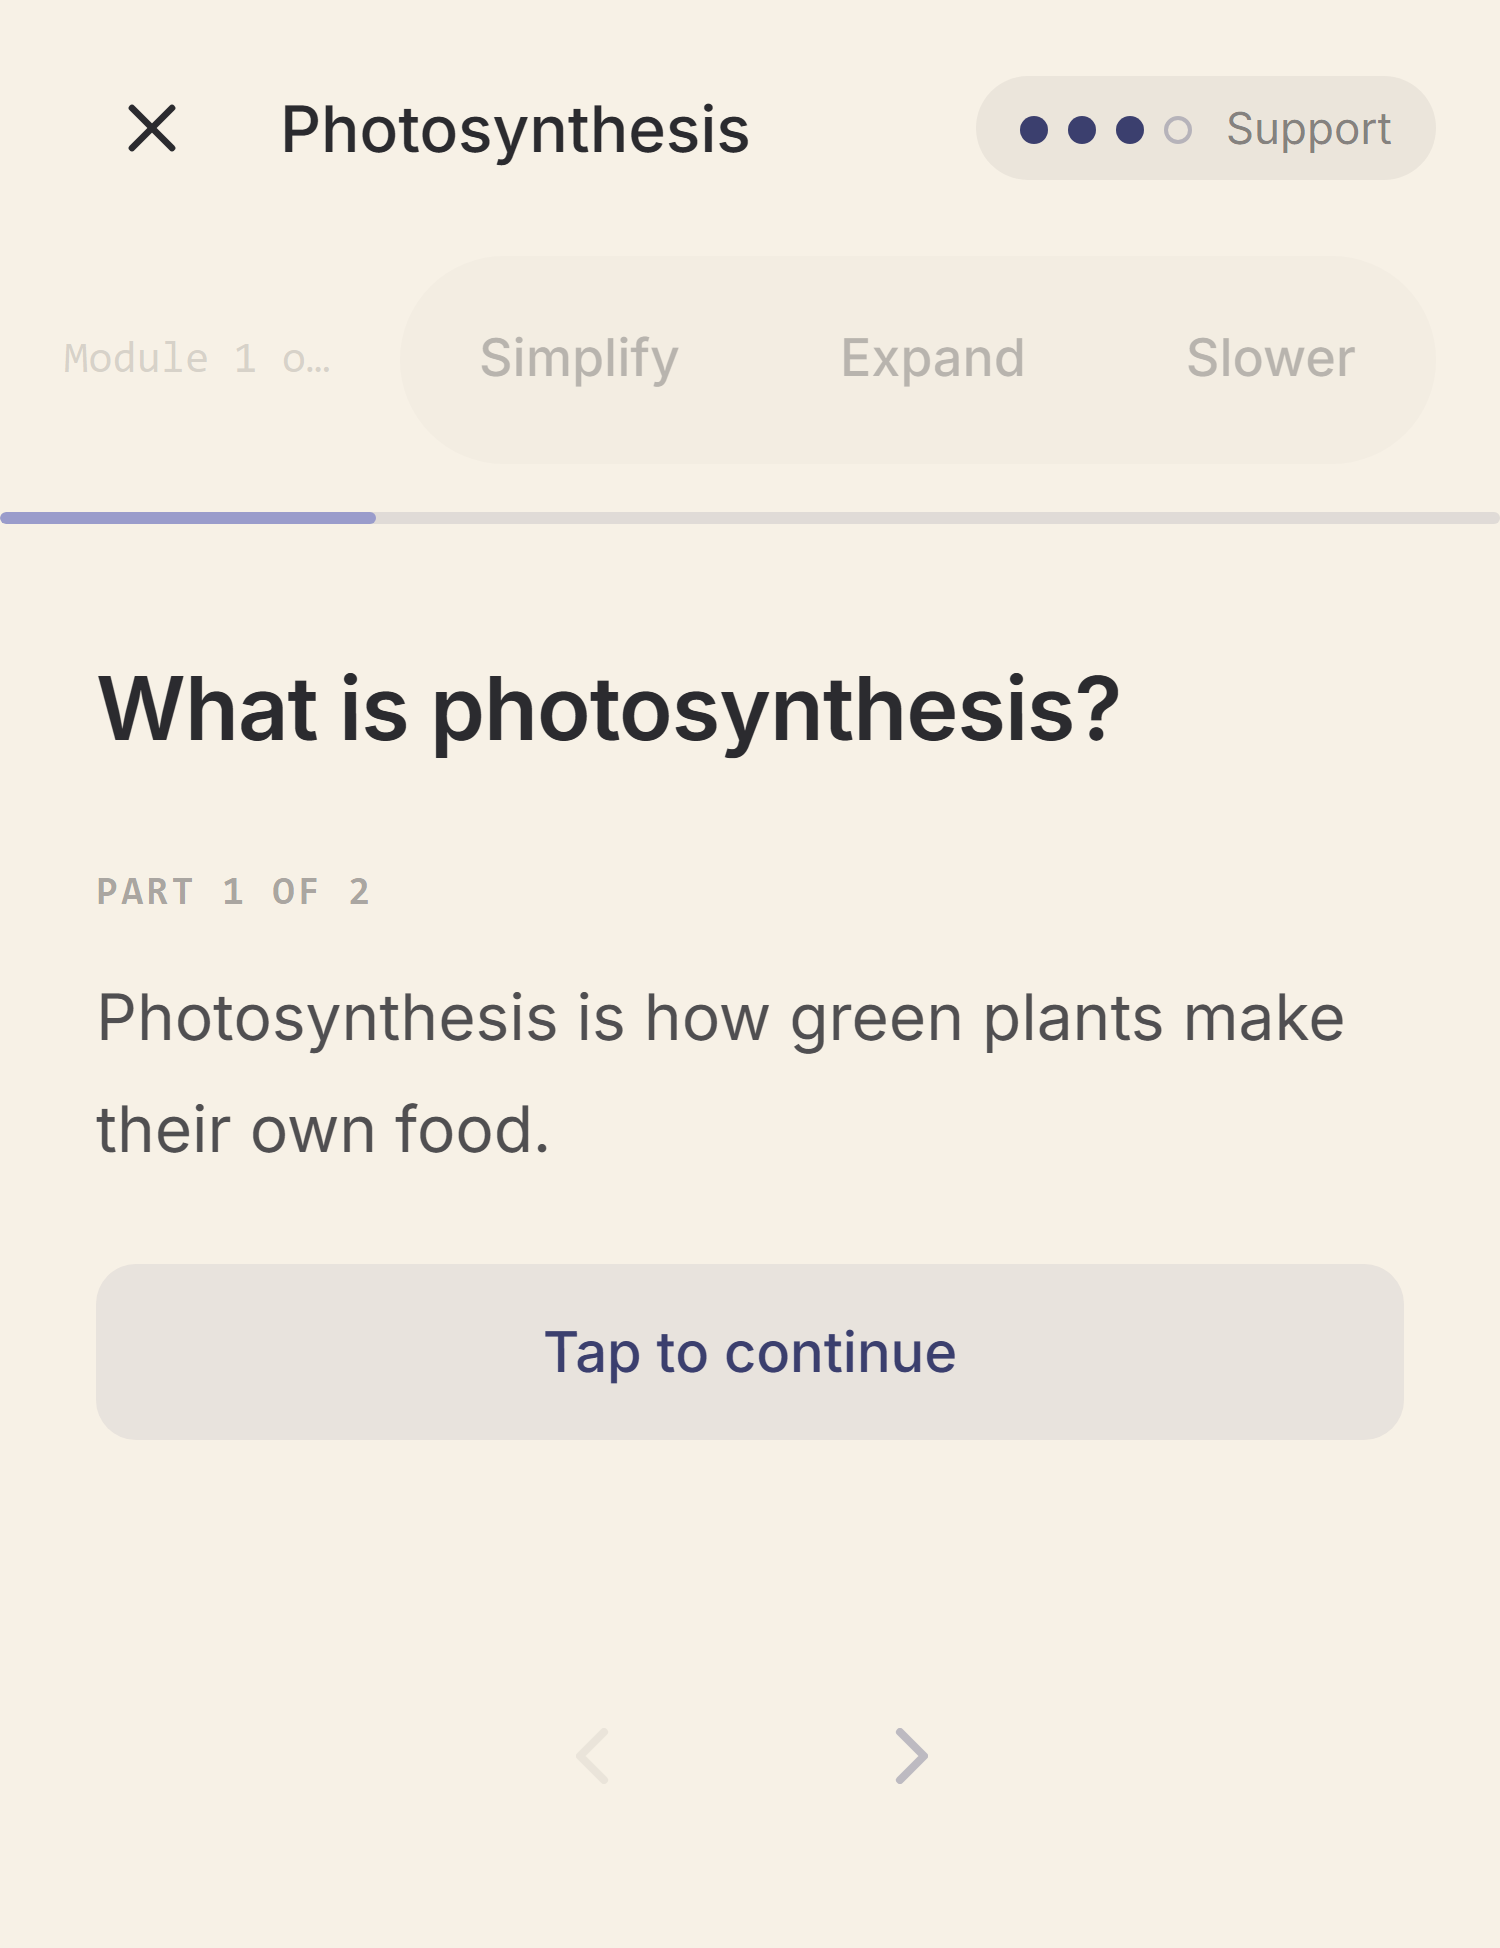
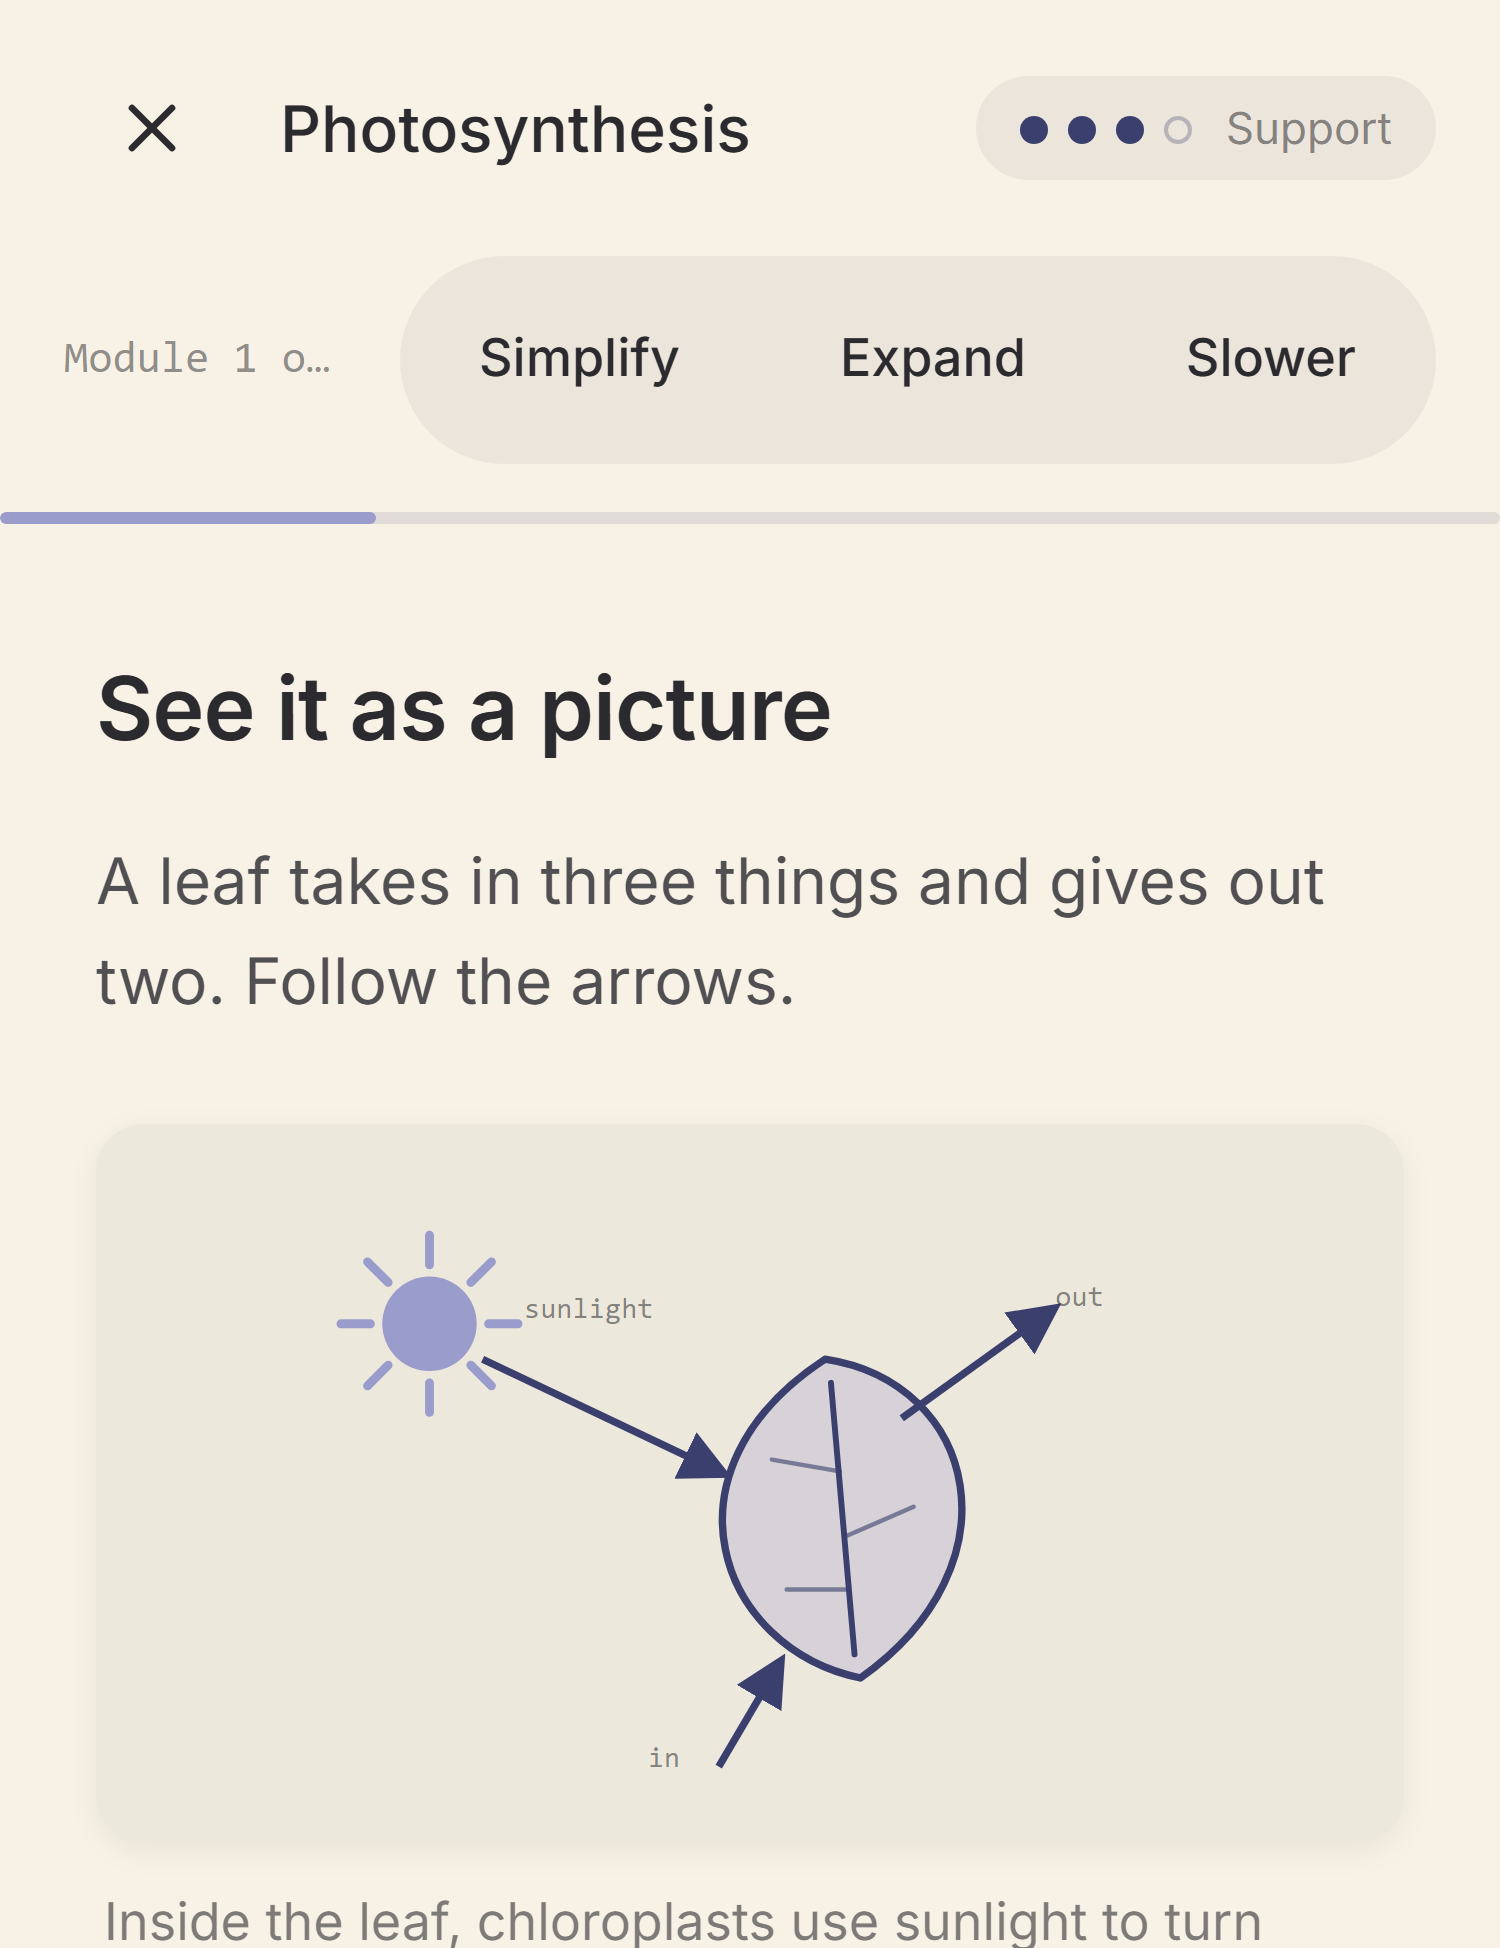
fix(landing): lesson-phone capture now shows the leaf-diagram visual modality

diff --git a/src/components/landing/StorySections.tsx b/src/components/landing/StorySections.tsx
@@ -247,7 +247,7 @@ export function LessonSection() {
           >
             <img
               src="/landing/lp-lesson-phone.png"
-              alt="A student's Nevo lesson on photosynthesis, with Simplify, Expand and Slower controls in the top bar"
+              alt="A student's Nevo lesson showing photosynthesis as a leaf diagram, with Simplify, Expand and Slower controls in the top bar"
               style={{ display: "block", width: "100%", height: "auto" }}
             />
           </div>
